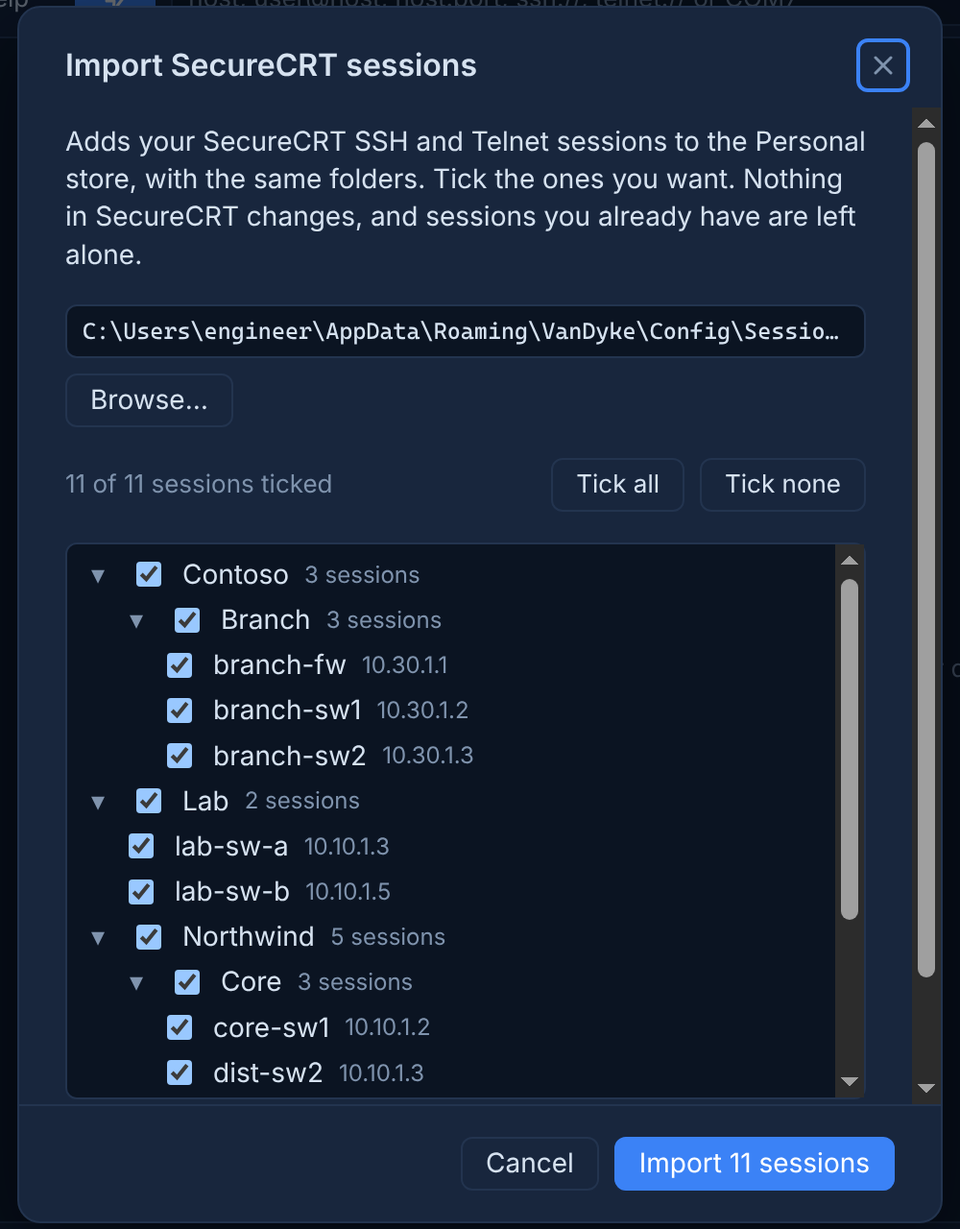
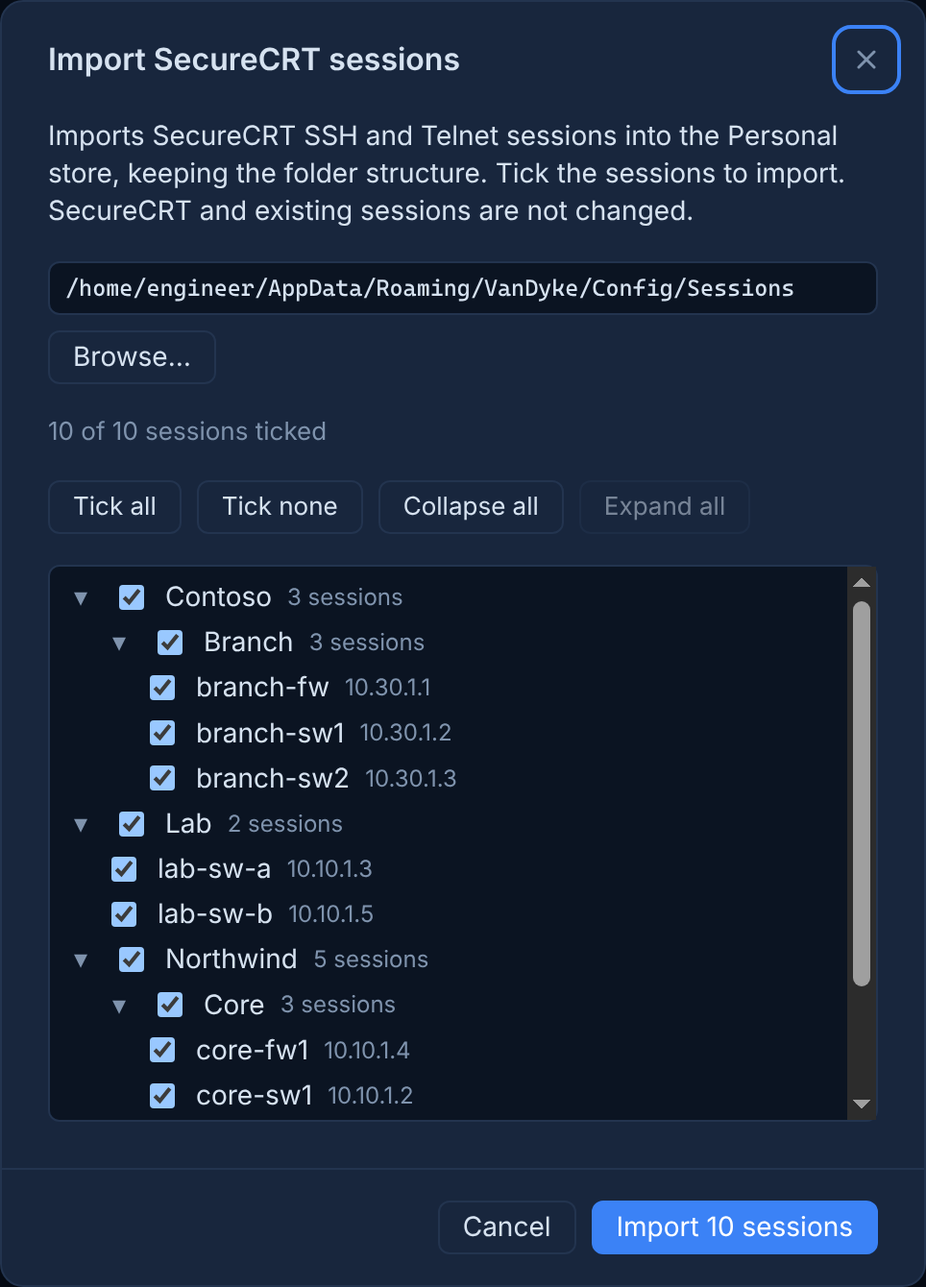
README: shared-folder wording, 0.1.7 to 0.2 features, retaken screenshots
Describes the Shared store as a folder the whole team can access, with no
OneDrive or SharePoint wording. Adds the features from 0.1.7 to 0.2: title-bar
search, Favourites and Recent, focus on one client, Clone session, Show beside,
the improved split view, port forwarding, SSH key generation, the Advanced
section in New and Edit session, per-server file server ports and Save ports.
Features still in the 0.2 beta builds are marked (0.2). Retakes the screenshots
whose dialogs or window changed and adds two new ones.

Claude-Session: https://claude.ai/code/session_01JJwPdBEGfMJjiaESgRR8CG

diff --git a/README.md b/README.md
@@ -1,19 +1,19 @@
 # ConnSmith
 
-Terminal client for network engineers on Windows 11 (64-bit). Tabbed SSH, Telnet and serial consoles, a shared session library, highlighted device output, split panes, a command window that sends to several tabs at once, and built-in TFTP, FTP and SFTP/SCP servers.
+Terminal client for network engineers on Windows 11 (64-bit). Tabbed SSH, Telnet and serial consoles, a shared session library, highlighted device output, split view, a command window that sends to several tabs at once, SSH port forwarding and key generation, and built-in TFTP, FTP and SFTP/SCP servers.
 
 <img src="docs/images/hero.png" alt="ConnSmith with four device tabs in a group, the session tree on the left and highlighted CLI output" width="900">
 
 This repository publishes the installers only. Download them from the [Releases page](https://github.com/CautiousCapsLock/connsmith-releases/releases/latest).
 
-**Status:** in testing. Features marked **(0.1.6)** arrived in release 0.1.6; unmarked features were in earlier releases. Everything here is in the [latest release](https://github.com/CautiousCapsLock/connsmith-releases/releases/latest).
+**Status:** in testing. The latest stable release is 0.1.9. Features marked **(0.2)** are in the 0.2.0 beta builds, which are pre-releases, and arrive in release 0.2. Unmarked features are in the latest stable release.
 
 ## Contents
 
 - [Install](#install) and [Updates](#updates)
 - [Getting started](#getting-started)
-- Core features: [SSH](#ssh-modern-and-legacy-profiles), [Serial](#serial-console), [Session tree and Shared sessions](#session-tree-and-shared-sessions), [Tabs, tab groups and split panes](#tabs-tab-groups-and-split-panes), [Command window](#command-window), [Highlight rules](#highlight-rules), [Terminal appearance](#terminal-appearance), [Find](#find), [File servers](#file-servers-tftp-ftp-and-sftpscp), [SecureCRT import](#securecrt-import), [SSH keys](#ssh-keys-including-putty-ppk)
-- [Other features](#other-features), including the [Jump host](#jump-host-016)
+- Core features: [SSH](#ssh-modern-and-legacy-profiles), [Port forwarding](#port-forwarding-02), [Serial](#serial-console), [Session tree and Shared sessions](#session-tree-and-shared-sessions), [Searching sessions](#searching-sessions), [Tabs, tab groups and split view](#tabs-tab-groups-and-split-view), [Command window](#command-window), [Highlight rules](#highlight-rules), [Terminal appearance](#terminal-appearance), [Find](#find), [File servers](#file-servers-tftp-ftp-and-sftpscp), [SecureCRT import](#securecrt-import), [SSH keys](#ssh-keys)
+- [New session and Edit session](#new-session-and-edit-session), [Other features](#other-features), including the [Jump host](#jump-host)
 
 ---
 
@@ -32,7 +32,7 @@ ConnSmith checks for a new release a few seconds after it starts and every 6 hou
 
 1. Select the cog. It opens **Settings > Updates**.
 2. Review **What's new** and select **Download update**.
-3. When the download finishes, select **Restart to update**. This closes ConnSmith and every open connection, installs the update and starts the new version.
+3. When the download finishes, select **Restart to update**. This closes ConnSmith and every open connection, installs the update and starts the new version. **(0.2)** The installer shows its progress and the step it is on until the new version opens.
 
 Nothing downloads or installs without a click. The automatic check can be turned off on the same page. The **Dev builds** switch offers pre-releases for testing and is off by default.
 
@@ -42,14 +42,14 @@ Nothing downloads or installs without a click. The automatic check can be turned
 
 ### First launch
 
-A welcome window of four short steps asks for the folder that holds saved sessions (the Personal store) first. The default is a `ConnSmith` folder in Documents, which OneDrive syncs between a user's own PCs. **Next** saves it. **(0.1.6)** The steps are Personal folder, app password, Shared folder and Shared password; Next and Finish wait, with a line saying why, while a password form is open and unsaved.
+A welcome window of four short steps starts with the folder that holds saved sessions (the Personal store). The default is a `ConnSmith` folder in Documents. **Next** saves it. The steps are Personal folder, app password, Shared folder and Shared password. Next and Finish wait, with a line saying why, while a password form is open and unsaved.
 
 <img src="docs/images/first-launch.png" alt="The Welcome window, step 1 of 4: the Personal folder" width="300"> <img src="docs/images/first-launch-password.png" alt="The Welcome window, step 2 of 4: the optional app password" width="300">
 
 The app password and the Shared folder are optional, and both can be changed later in **Settings**.
 
 - **App password** (Settings > Security). Required at every start, before any session loads. It protects passwords saved in sessions and makes them usable on other PCs that share the same app password. Without it, saved passwords are readable on the PC that saved them only.
-- **Windows Hello.** With an app password set, **Settings > Security** can turn on unlock with Windows Hello (fingerprint, face or PIN) instead of the typed password. Hello is built into ConnSmith and starts no scripts. The setting is per PC, so a second PC needs the app password typed once before Hello is turned on there. Uninstalling ConnSmith switches Hello off, even if the settings are kept.
+- **Windows Hello.** With an app password set, **Settings > Security** can turn on unlock with Windows Hello (fingerprint, face or PIN) instead of the typed password. The Hello prompt appears as soon as ConnSmith opens. Cancel it to type the app password. Hello is built into ConnSmith and starts no scripts. The setting is per PC, so a second PC needs the app password typed once before Hello is turned on there. Uninstalling ConnSmith switches Hello off, even if the settings are kept.
 - **Shared folder and password.** Steps 3 and 4 pick the team's Shared folder and enter the shared password. **Skip Shared** leaves the Shared store off for now. A chosen Shared folder cannot be finished until its shared password is saved.
 
 ### Connect to a device
@@ -69,7 +69,7 @@ The app password and the Shared folder are optional, and both can be changed lat
 Saved sessions appear in the session tree on the left. Double-click opens one. Two stores are shown together:
 
 - **Personal:** the user's own sessions.
-- **Shared:** a team folder synced with OneDrive, normally a SharePoint library. See [Session tree and Shared sessions](#session-tree-and-shared-sessions).
+- **Shared:** a folder that the whole team can access. See [Session tree and Shared sessions](#session-tree-and-shared-sessions).
 
 ---
 
@@ -86,9 +86,21 @@ When a Modern connection fails because the device offers only older algorithms, 
 
 <img src="docs/images/legacy-prompt.png" alt="The prompt: This device only offers diffie-hellman-group14-sha1 and diffie-hellman-group1-sha1 for key exchange, with a yellow Switch to Legacy algorithms and reconnect button" width="900">
 
-Also included: host key verification against a known-hosts file, keepalives, a **Reconnect** button after a dropped link, and the negotiated algorithms in the connection info panel (top right icon). **(0.1.6)** For a device whose host key is already saved, ConnSmith asks for that key type first, as OpenSSH does, so a device that has since gained a newer key type does not show a first-connection dialog.
+Also included: host key verification against a known-hosts file, keepalives, a **Reconnect** button after a dropped link, and the negotiated algorithms in the connection info panel (top right icon). For a device whose host key is already saved, ConnSmith asks for that key type first, as OpenSSH does, so a device that has since gained a newer key type does not show a first-connection dialog.
 
 **Known limitation:** devices that offer only `diffie-hellman-group1-sha1` (for example older Cisco IOS releases) cannot connect. The tab reports this.
+
+### Port forwarding (0.2)
+
+An SSH session can open local port forwards when it connects, like `ssh -L`. A forward opens a port on the PC and passes connections through the device to a remote host and port. Typical use: reach a switch's own web page.
+
+Set forwards in **Edit session > Advanced > Port forwards**. Each row has a local port, a remote host and a remote port. For the device's own web page, use remote host `127.0.0.1`. While the session is connected, browse to `127.0.0.1:<local port>`.
+
+- Forwards open with the connection and close with it. A forward that cannot start, for example because the local port is in use, is reported in the tab.
+- Up to 20 forwards per session. Forwards work through a [jump host](#jump-host).
+- Forwards are saved in the session file.
+
+<img src="docs/images/jump-host-edit.png" alt="Edit session with Advanced open: Jump host set to bastion and a port forward from local port 8443 to 127.0.0.1 port 443" width="520">
 
 ### Serial console
 
@@ -105,32 +117,43 @@ COM ports are scanned every 2 seconds. When a USB console adapter is plugged in,
 
 ### Session tree and Shared sessions
 
-A single tree shows the Personal and Shared stores with their folders. The filter box searches name, host and folder. Sessions can be dragged between folders and between stores. **(0.1.6)** Pick several sessions with Ctrl or Shift and drag any one of them: they all move. The right-click **Move…** opens a window of folders for one session or several, in Personal and in Shared. A session that can't move stays put and is named in a banner.
+A single tree shows the Personal and Shared stores with their folders. The filter box searches name, host and folder. Sessions can be dragged between folders and between stores. Pick several sessions with Ctrl or Shift and drag any one of them: they all move. The right-click **Move…** opens a window of folders for one session or several, in Personal and in Shared. A session that can't move stays put and is named in a banner.
 
-<img src="docs/images/session-tree.png" alt="The session tree: Personal sessions, and Shared sessions grouped by client, optional site and device type, with a green dot on each connected session" width="300">
+<img src="docs/images/session-tree.png" alt="The session tree: Favourites and Recent sections, Personal sessions, and Shared sessions grouped by client, site and device type, with a green dot on each connected session" width="300">
 
 - **Status dots:** a saved session with an open tab shows a dot at the right of its row: green connected, amber connecting, red disconnected.
-- **Multi-connect:** Ctrl+click or Shift+click selects several sessions, and Enter opens each in its own tab. Host key and password prompts appear one after another. **(0.1.6)** With several sessions selected, the right-click menu also offers **Move to Shared…** and **Delete N sessions…**. Delete lists the sessions and asks first.
-- **Collapse all (0.1.6):** the right-click menu of every folder, and of the Personal and Shared rows, folds the tree. ConnSmith remembers which folders were open.
+- **Multi-connect:** Ctrl+click or Shift+click selects several sessions, and Enter opens each in its own tab. Host key and password prompts appear one after another. With several sessions selected, the right-click menu also offers **Move to Shared…** and **Delete N sessions…**. Delete lists the sessions and asks first.
+- **Collapse all:** the right-click menu of every folder, and of the Personal and Shared rows, folds the tree. ConnSmith remembers which folders were open.
+- **Copy IP, Copy username and Copy password:** in the right-click menu of a saved session. The clipboard is cleared 30 seconds after a password is copied.
+- **Slow files:** a session file that does not open within a few seconds, for example on a slow network share, is listed as "not opened yet…" and loaded when it opens. It is never offered for deletion while it waits.
 - **Shared store:** set the team folder in **Settings > Session stores**. Each user enters the same shared password once on their own PC.
-- **Move to Shared:** the right-click menu on a session or folder moves it to the Shared store after the share checks. A session that fails a check stays in Personal and the dialog gives the reason. **Session > Move many to Shared…** moves many sessions in one wizard. **(0.1.6)** The wizard's last step lists the Personal folders the move left empty, each with a tick box that is on to start with, and deletes the ones that stay ticked.
-- **OneDrive:** the tree shows a warning when shared files are online-only placeholders. The folder must be set to **Always keep on this device** in File Explorer.
+- **Move to Shared:** the right-click menu on a session or folder moves it to the Shared store after the share checks. A session that fails a check stays in Personal and the dialog gives the reason. **Session > Move many to Shared…** moves many sessions in one wizard. The wizard's last step lists the Personal folders the move left empty, each with a tick box that is on to start with, and deletes the ones that stay ticked.
+- **Unshared sessions:** **Session > Unshared sessions** lists Personal sessions with a host that is not in Shared, so they can be shared or deleted in batches.
+
+#### The Shared folder
+
+The Shared store is a normal folder that the whole team can read and write: a network share, a folder on a file server, or a synced folder. ConnSmith keeps one file per session, so it needs no server. Every user needs read and write access to the folder.
 
 <img src="docs/images/shared-store.png" alt="Settings, Session stores: the Personal and Shared folders and the Shared password" width="760">
 
-#### Shared folder layout (0.1.6)
+- Each person enters the shared password once on each PC. It unlocks the Shared store and the passwords saved in shared sessions.
+- Anyone with the shared password can open, edit and copy shared sessions, including their saved passwords.
+- When someone leaves the team: remove their access to the Shared folder, change the shared password, and change the device passwords they could see. Changing the shared password rewrites only the key file in the Shared folder.
 
-Shared sessions follow one layout: **Client**, an optional **Site**, then a device type folder (**Firewalls**, **Switches**, **VoIP** or **Other**), then the sessions.
+#### Shared folder layout
+
+Shared sessions follow one layout: **Client**, an optional **Site**, then a device type folder (**Firewalls**, **Switches**, **VoIP**, **Wireless** or **Other**), then the sessions.
 
 - A client's right-click menu has **New site folder…** and **New device folder…**. A site's menu has **New device folder…** only. A client and each of its sites can hold the same device types. **New device folder…** lists every device type and greys out the ones the client or site already has.
-- **Move to Shared** asks for client, site and device type. The wizard guesses the site from a folder such as `Acme/London/Switches`.
+- **Move to Shared** asks for client, site and device type. The client and site boxes list the ones already in Shared, and a line under each says what a typed name will do. The wizard guesses the site from a folder such as `Acme/London/Switches`.
 - Nothing is created ahead of time. Device type folders cannot be renamed.
 - Folders and sessions already in Shared that do not fit the layout are flagged with a warning and a **Review** button that lists them. Nothing is moved or hidden.
 - Deleting a Shared folder asks twice, because it removes the folder for everyone. The confirmation says how many sessions go with it.
+- A team that keeps its own `_rules.json` lists its device types there. Add `Wireless` to use that type.
 
-#### Duplicate checks (0.1.6)
+#### Duplicate checks
 
-The Shared store is edited by several people, so ConnSmith checks for the same thing being added twice. The checks ignore case, spaces and punctuation, so `Core SW1` and `core-sw1` match. A short host name and the same name with a domain, or one IPv6 address written two ways, count as the same device.
+The Shared store is edited by several people, so ConnSmith checks for the same thing being added twice. The checks ignore case, spaces and punctuation, so `Core SW1` and `core-sw1` match. A short host name and the same name with a domain, or one IPv6 address written two ways, count as the same device. A device only matches within its own client, so the same private address under two clients is not a duplicate.
 
 - **Folders:** a new or renamed client or site folder that matches one beside it is refused. One that is only close (`Acme` and `Acme Ltd`, or a one-letter typo) asks once more, and the button becomes **Create anyway**.
 
@@ -138,7 +161,7 @@ The Shared store is edited by several people, so ConnSmith checks for the same t
 
 - **Sessions:** when a session being moved to Shared has the same device as one already there, the dialog lists the existing sessions with **Open** and **Edit** buttons, and the button becomes **Move anyway**. The wizard has a **Move anyway** tick box on each such session. A failed name or host check still blocks the move.
 
-<img src="docs/images/move-anyway.png" alt="Move to Shared: an Already in Shared notice listing two sessions with the same host, and a Move anyway button" width="560">
+<img src="docs/images/move-anyway.png" alt="Move to Shared: an Already in Shared notice listing a session with the same host, with Open and Edit buttons and a Move anyway button" width="560">
 
 - **Possible duplicates banner:** when duplicates are already in the store, for example because two people shared the same device at once, the tree shows **N possible duplicates in Shared** with a **Review** button. Nothing is changed automatically: delete or rename one from the tree, or leave both if both are wanted.
 
@@ -148,31 +171,41 @@ The Shared store is edited by several people, so ConnSmith checks for the same t
 
 - **Empty folders:** after the last session leaves a Shared device folder (deleted, or moved to Personal or another Shared folder), ConnSmith asks **Delete the empty folder…?**. A client or site folder that the removal would also empty is included. Each folder has a tick box, all ticked to start with: untick one to keep it. A folder that holds one you kept stays too. With none ticked the button reads **Keep all** and deletes nothing. ConnSmith never deletes on its own, so a colleague who is about to add to the folder can keep it.
 
-<img src="docs/images/delete-empty-folder.png" alt="Delete 3 empty folders? with a tick box on each folder: Acme, London, Switches is ticked, London is unticked, and Acme is unticked and marked as staying because it holds a folder being kept; the button reads Delete 1 folder" width="460">
+<img src="docs/images/delete-empty-folder.png" alt="Delete 2 empty folders? with a tick box on each folder, both ticked, and a Delete 2 folders button" width="460">
 
-### Tabs, tab groups and split panes
+### Searching sessions
 
-Each connection opens in a tab. Tabs reorder by drag. **Move tab to new window** detaches a tab together with its connection and scrollback. The tab menu also closes other tabs or the tabs to the right.
+- **Title-bar box:** type part of a session's name, address, client or site and pick it from the list that drops down. Typos are forgiven: `lodnon` finds London. Typing a host still works: it is the last row of the list. **Alt+K** jumps to the box. **Alt+Q** still opens Quick Connect.
+- **Session filter:** the filter box above the tree shows how many sessions match (for example "6 of 412"), has a clear button, and marks the words typed in the matching names, addresses and folders. **All**, **Shared** and **Personal** buttons under it limit the search to one store.
+- **Favourites and Recent:** right-click a session and choose **Add to Favourites**. Favourites and Recent sit above Personal and Shared. Recent lists the last 8 sessions opened. Both lists belong to the user and are kept on that PC, not in the Shared folder. **Settings > General** hides Recent.
+- **Focus on one client:** right-click a client in Shared and choose **Focus on this client** to show only that client's sites and devices. Personal stays where it is. **Switch** picks another client and **Show all** brings the rest back.
 
-**Tab groups** keep the devices for one task together. **Connect as tab group…** in the tree's right-click menu opens the selected sessions as a named, coloured group, shown as a chip before its tabs. Selecting the chip folds the group. **Add to new group…** in a tab's menu groups tabs that are already open.
+<img src="docs/images/title-search.png" alt="The title-bar box with lodnon typed: four saved sessions in the London folders are listed, followed by a Connect as a new host row" width="900">
+
+### Tabs, tab groups and split view
+
+Each connection opens in a tab. Tabs reorder by drag. **Move tab to new window** detaches a tab together with its connection and scrollback. The tab menu also closes other tabs or the tabs to the right. **Clone session (0.2)** opens the same session again in a new tab next to the first, in the same group. A serial port can only be opened once, so it cannot be cloned.
+
+**Tab groups** keep the devices for one task together. **Connect as tab group…** in the tree's right-click menu opens the selected sessions as a named, coloured group, shown as a chip before its tabs. Selecting the chip folds the group. **Add to new group…** in a tab's menu groups tabs that are already open. Dragging a tab onto a group's chip, or onto any tab of the group, adds it, and the group lights up in its colour while the tab is held over it.
 
 <img src="docs/images/tabs-groups.png" alt="Four tabs under a blue Northwind group chip" width="900">
 
 <img src="docs/images/tab-group-dialog.png" alt="The Connect as tab group window with a group name and colour choices" width="420">
 
-**Split panes (0.1.6).** **Split pane right** and **Split pane down**, in a tab's right-click menu and in the Tab menu, open a second connection to the same place beside or under the first. Each pane has its own connection and asks for its own login. Drag the bar between the panes to resize them.
+**Split view.** **Split pane right** and **Split pane down**, in a tab's right-click menu and in the Tab menu, open a second connection to the same place beside or under the first. Each pane has its own connection and asks for its own login. Drag the bar between the panes to resize them. **Show beside: <tab>** puts another open tab, a serial console included, next to the current one without reconnecting either.
 
-- **Close pane** closes one pane. **Move pane to its own tab** undoes the split. Closing the tab closes both panes.
-- A tab holds two panes at most. A serial port cannot be split.
+- **(0.2)** The tab shows both panes. Each pane has a header with the session name and **Swap panes** and **Close pane** buttons, the pane being typed in is marked, and the divider is easier to see and grab.
+- **Close pane** closes one pane. **Close split view (0.2)** turns the split back into two tabs. Closing the tab closes both panes.
+- A tab holds two panes at most. A serial port cannot be split, but it can be shown beside another tab.
 - The command window's **Visible panes** option sends to both panes.
 
-<img src="docs/images/split-panes.png" alt="One tab split into two panes, each showing different output, with the command window set to Visible panes (2)" width="900">
+<img src="docs/images/split-panes.png" alt="Two devices side by side in one tab, each pane with its own header, with the other tabs of the group above" width="900">
 
 ### Command window
 
 **View > Command window** opens an input box at the bottom of the window. Its target is one of:
 
-- **Visible panes:** the visible tab, or both panes of a split tab **(0.1.6)**,
+- **Visible panes:** the visible tab, or both panes of a split tab,
 - the tab group of the visible tab,
 - all active sessions.
 
@@ -186,7 +219,7 @@ Device output is coloured as it arrives. Rules cover IP addresses, interface up 
 
 The rule set is selected from the device's output. The **Highlighting** menu in the status bar shows the active set and switches it.
 
-**Follows the prompt (0.1.6).** On **Auto**, the rule set follows the prompt after login, not only at login. A session that logs in to a Linux host and hops from there to a FortiGate (or a Junos or Comware device) switches to that device's rules once its prompt appears, and goes back to the common set when a shell prompt returns. A set picked by hand from the Highlighting menu never changes.
+**Follows the prompt.** On **Auto**, the rule set follows the prompt after login, not only at login. A session that logs in to a Linux host and hops from there to a FortiGate (or a Junos or Comware device) switches to that device's rules once its prompt appears, and goes back to the common set when a shell prompt returns. A set picked by hand from the Highlighting menu never changes.
 
 <img src="docs/images/highlight-follows-prompt.png" alt="A session that logged in to a bastion and hopped to a FortiGate, with the status bar showing Highlighting: Auto (Fortinet FortiOS)" width="900">
 
@@ -194,13 +227,14 @@ The rule set is selected from the device's output. The **Highlighting** menu in 
 
 ### Terminal appearance
 
-Colour scheme, font, font size, bold and cursor style are set per session in **Edit session**, and for new sessions in **Session > Default session…**. A session that does not set a value follows the Default session.
+Colour scheme, font, font size, bold and cursor style are set per session under **Edit session > Advanced**, and for new sessions in **Session > Default session…**. A session that does not set a value follows the Default session.
 
 - **Colour schemes:** ConnSmith Dark Blue, Light, Solarized Dark, Classic (white on black), Graphite Orange and Matrix. The highlight colours follow the scheme.
 - **Font:** a drop-down of Cascadia Mono, Cascadia Code, Courier, Courier New, Lucida Console and MS Gothic, each shown in its own face. Fonts that are not installed on the PC fall back to Consolas. Cascadia Mono is bundled with ConnSmith.
 - **Font size:** the even sizes from 8 to 24. The default is 14.
 - **Bold:** a tick box that sets the bold weight for all text.
 - The built-in choice in each drop-down is marked **(Default)**.
+- **Zoom:** **View > Zoom in**, **Zoom out** and **Reset zoom** (Ctrl+=, Ctrl+- and Ctrl+0) change the font size of the tab in front by two pixels and save it into its session. **View > Theme** lists the colour schemes.
 
 <img src="docs/images/default-session.png" alt="The Default session window with Colour scheme set to Graphite Orange, and the Font, Font size and Bold options" width="560">
 
@@ -212,13 +246,13 @@ Graphite Orange (orange on grey) and Matrix (green on black):
 
 **Ctrl+Shift+F** searches the scrollback of the current tab, with case-sensitive and regular expression options. Every match is also marked in a strip beside the scrollbar, showing where matches fall in a long output.
 
-<img src="docs/images/find.png" alt="The Find box with matches highlighted in the output and marked beside the scrollbar" width="900">
+<img src="docs/images/find.png" alt="The Find box with down highlighted in the output and marked beside the scrollbar" width="900">
 
 ### File servers: TFTP, FTP and SFTP/SCP
 
 **Tools > File servers** opens a panel with three servers that serve one shared folder (the Downloads folder by default, changed in **Settings > File servers**).
 
-| Server | Port | Typical use |
+| Server | Default port | Typical use |
 | --- | --- | --- |
 | TFTP | UDP 69 | Firmware and configuration transfer for switches and access points |
 | SCP / SFTP | TCP 22 (2222 if 22 is in use) | Devices that use `scp` or `sftp`, such as FortiGate |
@@ -230,8 +264,9 @@ Graphite Orange (orange on grey) and Matrix (green on black):
 - The panel shows each server's address and, for SFTP and FTP, the login and a password generated each time the server is switched on.
 - The folder is read-only until **Allow uploads** is switched on. The switch resets at every start. Devices cannot delete files or directories.
 - Each transfer is listed with device, file, progress and speed. Refused requests are listed with the reason.
+- **Ports:** **Settings > File servers** sets a port for each server and a second port that is tried when the first is taken. The panel shows the port in use. **(0.2)** **Save ports** applies a change and updates the Windows Firewall rules at once, after one administrator approval. Leaving Settings with unsaved port changes asks first.
+- **Allow in Windows Firewall** adds inbound rules for the ports in use only, after one administrator prompt. If Windows refuses, the panel says why and shows the equivalent `netsh` command.
 - SFTP refuses a request to append to a file, because uploads are stored whole, instead of quietly replacing it. TFTP serves a request that a device repeats before the first answer once, so no failed row appears beside the good one.
-- **Allow in Windows Firewall** adds inbound rules for these ports only, after one administrator prompt. Where policy prevents this, the panel shows the equivalent `netsh` command.
 
 ### SecureCRT import
 
@@ -239,36 +274,52 @@ Graphite Orange (orange on grey) and Matrix (green on black):
 
 <img src="docs/images/securecrt-import.png" alt="The Import SecureCRT sessions window with a tree of folders and sessions with tick boxes" width="460">
 
-The final page offers **Move to Shared…**, which opens the wizard that assigns a client and category to each folder and moves the sessions that pass the share checks.
+The final page offers **Move to Shared…**, which opens the wizard that assigns a client and device type to each folder and moves the sessions that pass the share checks.
 
-### SSH keys, including PuTTY .ppk
+### SSH keys
 
-**Settings > SSH keys > Add key…** accepts OpenSSH and PEM private keys and PuTTY `.ppk` files: version 2 RSA, and version 3 (PuTTY 0.75 and later) RSA, ECDSA and ed25519, with or without a passphrase. No conversion in PuTTYgen is needed.
+**Settings > SSH keys** holds the private keys that sessions can log in with. A key chosen in **Edit session** is tried before the password, and the password prompt follows if the device refuses it. Keys stay in their original files and are never copied into sessions or the Shared store. A Shared session never holds a key: each PC picks its own key for the session.
 
-Keys stay in their original files and are never copied into sessions or the Shared store. A session selects a key by name in **Edit session**. The key is tried first, and the password prompt follows if the device refuses it.
+- **Add key…** accepts OpenSSH and PEM private keys and PuTTY `.ppk` files: version 2 RSA, and version 3 (PuTTY 0.75 and later) RSA, ECDSA and ed25519, with or without a passphrase. No conversion in PuTTYgen is needed.
+- **Generate key… (0.2)** makes an Ed25519 or RSA 4096 key, with an optional passphrase and comment. The private key is saved to a file chosen in the save dialog, with the public key beside it as `.pub`. Existing files are never overwritten. The new key is added to the list straight away.
+- **Copy public key** puts the public key line on the clipboard, ready to paste into the device's authorized keys.
+- The passphrase can be saved on the PC, protected by the Windows login. Removing a key does not delete its file. Sessions that used it go back to password login.
 
 <img src="docs/images/ppk-keys.png" alt="Settings, SSH keys, listing two added keys with their fingerprints" width="760">
 
+<img src="docs/images/ssh-keygen.png" alt="Settings, SSH keys, the Generate key form with a name, type, comment and passphrase" width="760">
+
 ---
 
-## Other features
+## New session and Edit session
 
-- **Session logging** to a file with a templated path and optional timestamps, started from the tab menu or automatically per session.
-- **Paste protection:** pastes are shown for confirmation first and can be sent line by line with per-session line and character delays.
-- **Hostname check:** when the device prompt differs from the saved session name, ConnSmith offers to update the session. A switch in **Settings > Terminal** turns the offer off.
-- **Command palette** for all menu actions.
+**Session > New session…** and **Edit session** keep the common fields in view: name, protocol, host, port, username and login key. **(0.2)** Everything else sits behind **Advanced**, which opens by itself when the session already uses one of its settings:
 
-### Jump host (0.1.6)
+- Jump host and port forwards (SSH),
+- the inherited terminal settings (algorithms, backspace, encoding, scrollback, colours, font and cursor),
+- pasting and logging settings.
 
-**Edit session > Jump host** lists the saved SSH sessions. When one is chosen, ConnSmith logs in to it first, with its own saved password, key and settings, and opens the connection to the device through it. Use it for devices that are reachable only from a bastion or management host.
+A setting left blank follows the Default session.
 
-<img src="docs/images/jump-host-edit.png" alt="Edit session with the Jump host drop-down set to bastion" width="520">
+### Jump host
+
+**Edit session > Advanced > Jump host** lists the saved SSH sessions. When one is chosen, ConnSmith logs in to it first, with its own saved password, key and settings, and opens the connection to the device through it. Use it for devices that are reachable only from a bastion or management host.
 
 - The host key and login questions of the jump host are titled **Jump host**. The connection info panel shows it on the **Via** line.
 - One hop only.
 - A Shared session can use only a Shared session as its jump host, and a session moves to Shared only once its jump host is there.
 
 <img src="docs/images/jump-host-info.png" alt="A connected tab with the connection info panel showing Via bastion" width="900">
+
+## Other features
+
+- **Session logging** to a file with a templated path, started from the tab menu or automatically per session. **Settings > Logging** has a switch that adds the date and time to every log line. Logs can hold device configuration, so keep the log folder out of any synced or shared folder.
+- **Paste protection:** pastes are shown for confirmation first and can be sent line by line with per-session line and character delays. A single line break at the end of a pasted command is dropped, so Enter stays with the user.
+- **Hostname check:** when the device prompt differs from the saved session name, ConnSmith offers to update the session. A switch in **Settings > Terminal** turns the offer off.
+- **Command palette** (Ctrl+Shift+P) for all menu actions.
+- **One window:** starting ConnSmith while it is already open brings the open window forward instead of starting a second copy.
+- **Pop-ups (0.2):** short pop-ups confirm that an address, username or password was copied, that a session was saved from Quick Connect, and that logging started or stopped. The COM port pop-up is smaller and slides in.
+- **Motion (0.2):** buttons, menus and dialogs have a little motion and clearer keyboard focus. Motion is skipped when Windows animation effects are off.
 
 ## Reporting problems
 
